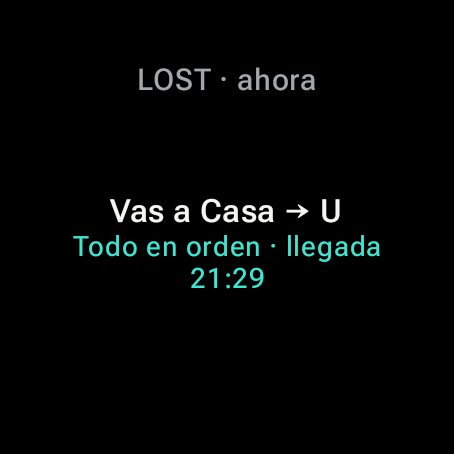
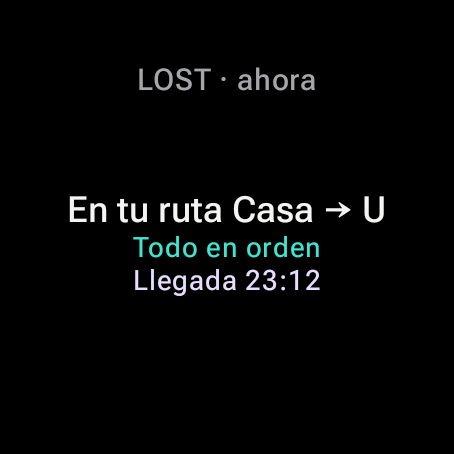
design(complication): aclarar el título y la llegada en la vista rápida
"Vas a Casa → U" se leía como si el destino fuera Casa: con rutina el título es "En tu ruta
Casa → U" (en un lugar nuevo sigue "Vas a {destino}"), más grande como en el mockup 05.2, y
la llegada va en su propia línea ("Llegada 7:15"). En los textos de desvío de Tu semana se usan
espacios que no se cortan, para que "desvío" no quede sola en otra línea.

Changed region(s): [[0.1542, 0.4317, 0.8326, 0.6476], [0.8018, 0.4317, 0.8634, 0.4934]]

diff --git a/app/src/main/java/com/lost/watch/tile/MainTileService.kt b/app/src/main/java/com/lost/watch/tile/MainTileService.kt
@@ -9,7 +9,7 @@ import androidx.wear.protolayout.TimelineBuilders
 import androidx.wear.protolayout.material3.MaterialScope
 import androidx.wear.protolayout.material3.Typography.BODY_MEDIUM
 import androidx.wear.protolayout.material3.Typography.LABEL_MEDIUM
-import androidx.wear.protolayout.material3.Typography.TITLE_MEDIUM
+import androidx.wear.protolayout.material3.Typography.TITLE_LARGE
 import androidx.wear.protolayout.material3.materialScope
 import androidx.wear.protolayout.material3.primaryLayout
 import androidx.wear.protolayout.material3.text
@@ -41,8 +41,8 @@ private const val RESOURCES_VERSION = "0"
 private const val OPEN_LOST_ID = "open_lost"
 
 /**
- * 05.2 · Vista rápida: "LOST · ahora", a dónde vas ("Vas a la U") y el estado con la llegada
- * ("Todo en orden · llegada 7:15") en el color del estado. Tocarla abre Inicio. Se actualiza en vivo
+ * 05.2 · Vista rápida: "LOST · ahora", la rutina ("En tu ruta Casa → U"), el estado en su color ("Todo en
+ * orden") y la llegada en su propia línea ("Llegada 7:15"). Tocarla abre Inicio. Se actualiza en vivo
  * (`GlanceRefresher`).
  */
 @AndroidEntryPoint
@@ -91,22 +91,19 @@ private fun MaterialScope.summaryColumn(context: Context, summary: GlanceSummary
     val statusColor = LayoutColor(SemanticTokens.Status.of(summary.status.tone).toArgb())
     val titleColor = LayoutColor(SemanticTokens.Text.primary.toArgb())
     val title = summary.title.resolve(context).layoutString
-    return LayoutElementBuilders.Column.Builder()
-        .addContent(
-            text(title, typography = TITLE_MEDIUM, color = titleColor, maxLines = 2)
-        )
-        .addContent(
-            text(detailLine(context, summary).layoutString, typography = BODY_MEDIUM, color = statusColor, maxLines = 2)
-        )
-        .build()
+    val detail = summary.detail.resolve(context).layoutString
+    val column = LayoutElementBuilders.Column.Builder()
+        .addContent(text(title, typography = TITLE_LARGE, color = titleColor, maxLines = 2))
+        .addContent(text(detail, typography = BODY_MEDIUM, color = statusColor, maxLines = 2))
+    arrivalLine(context, summary)?.let {
+        column.addContent(text(it.layoutString, typography = BODY_MEDIUM, color = titleColor))
+    }
+    return column.build()
 }
 
-/** "Todo en orden · llegada 7:15" cuando se conoce la llegada; si no, solo el estado. */
-private fun detailLine(context: Context, summary: GlanceSummary): String {
-    val detail = summary.detail.resolve(context)
-    val arrival = summary.arrivalMinuteOfDay ?: return detail
-    val time = formatMinuteOfDay(arrival, context.resources.configuration.locales[0])
-    return context.getString(R.string.glance_detail_with_arrival, detail, time)
+/** "Llegada 7:15" en su propia línea: es el dato que se busca de un vistazo. */
+private fun arrivalLine(context: Context, summary: GlanceSummary): String? = summary.arrivalMinuteOfDay?.let {
+    context.getString(R.string.glance_arrival, formatMinuteOfDay(it, context.resources.configuration.locales[0]))
 }
 
 private fun openLost(context: Context): ActionBuilders.LaunchAction = ActionBuilders.LaunchAction.Builder()
@@ -123,7 +120,7 @@ private fun openLost(context: Context): ActionBuilders.LaunchAction = ActionBuil
 fun tilePreview(context: Context) = TilePreviewData({ resources() }) {
     val summary = GlanceSummary(
         isMonitoring = true,
-        title = StringRef(R.string.home_heading_to, "la U"),
+        title = StringRef(R.string.glance_on_routine, "Casa → U"),
         detail = StringRef(R.string.status_on_route),
         status = StatusPresentation.ON_ROUTE,
         shortLabel = R.string.complication_on_route,

diff --git a/app/src/main/java/com/lost/watch/glance/GlanceSummaryMapper.kt b/app/src/main/java/com/lost/watch/glance/GlanceSummaryMapper.kt
@@ -17,7 +17,7 @@ class GlanceSummaryMapper @Inject constructor(private val homeMapper: HomeUiStat
         val home = homeMapper.map(snapshot, isDemoAvailable = false, zoneId = zoneId)
         return GlanceSummary(
             isMonitoring = home.isMonitoring,
-            title = titleOf(home),
+            title = titleOf(home, snapshot),
             detail = detailOf(home),
             status = home.status,
             shortLabel = shortLabelOf(home),
@@ -26,10 +26,12 @@ class GlanceSummaryMapper @Inject constructor(private val homeMapper: HomeUiStat
         )
     }
 
-    private fun titleOf(home: HomeUiState): StringRef = when {
+    /** Con rutina, "En tu ruta Casa → U" (el nombre ya dice de dónde a dónde); en un lugar nuevo, "Vas a {destino}". */
+    private fun titleOf(home: HomeUiState, snapshot: TripSessionSnapshot): StringRef = when {
         !home.isMonitoring -> StringRef(R.string.home_idle_title)
         home.hasWeakLocation -> StringRef(R.string.error_gps_what)
         home.isVoluntaryDetour -> StringRef(R.string.home_walking_safely)
+        snapshot.routine != null && home.routineName != null -> StringRef(R.string.glance_on_routine, home.routineName)
         home.routineName != null -> StringRef(R.string.home_heading_to, home.routineName)
         home.isNewPlace -> StringRef(R.string.home_new_place)
         else -> StringRef(R.string.home_only_observing)

diff --git a/app/src/test/java/com/lost/watch/glance/GlanceSummaryMapperTest.kt b/app/src/test/java/com/lost/watch/glance/GlanceSummaryMapperTest.kt
@@ -27,7 +27,7 @@ class GlanceSummaryMapperTest {
     @Test
     fun `en rutina dice a donde vas con el avance y la llegada como inicio`() {
         val summary = mapper.map(AppFixtures.monitoring(AppFixtures.detection(AssistanceLevel.LOW)), ZoneOffset.UTC)
-        assertEquals(StringRef(R.string.home_heading_to, "Casa → U"), summary.title)
+        assertEquals(StringRef(R.string.glance_on_routine, "Casa → U"), summary.title)
         assertEquals(StringRef(R.string.status_on_route), summary.detail)
         assertEquals(0.3f, summary.progress)
         assertEquals(7 * 60 + 15, summary.arrivalMinuteOfDay)
